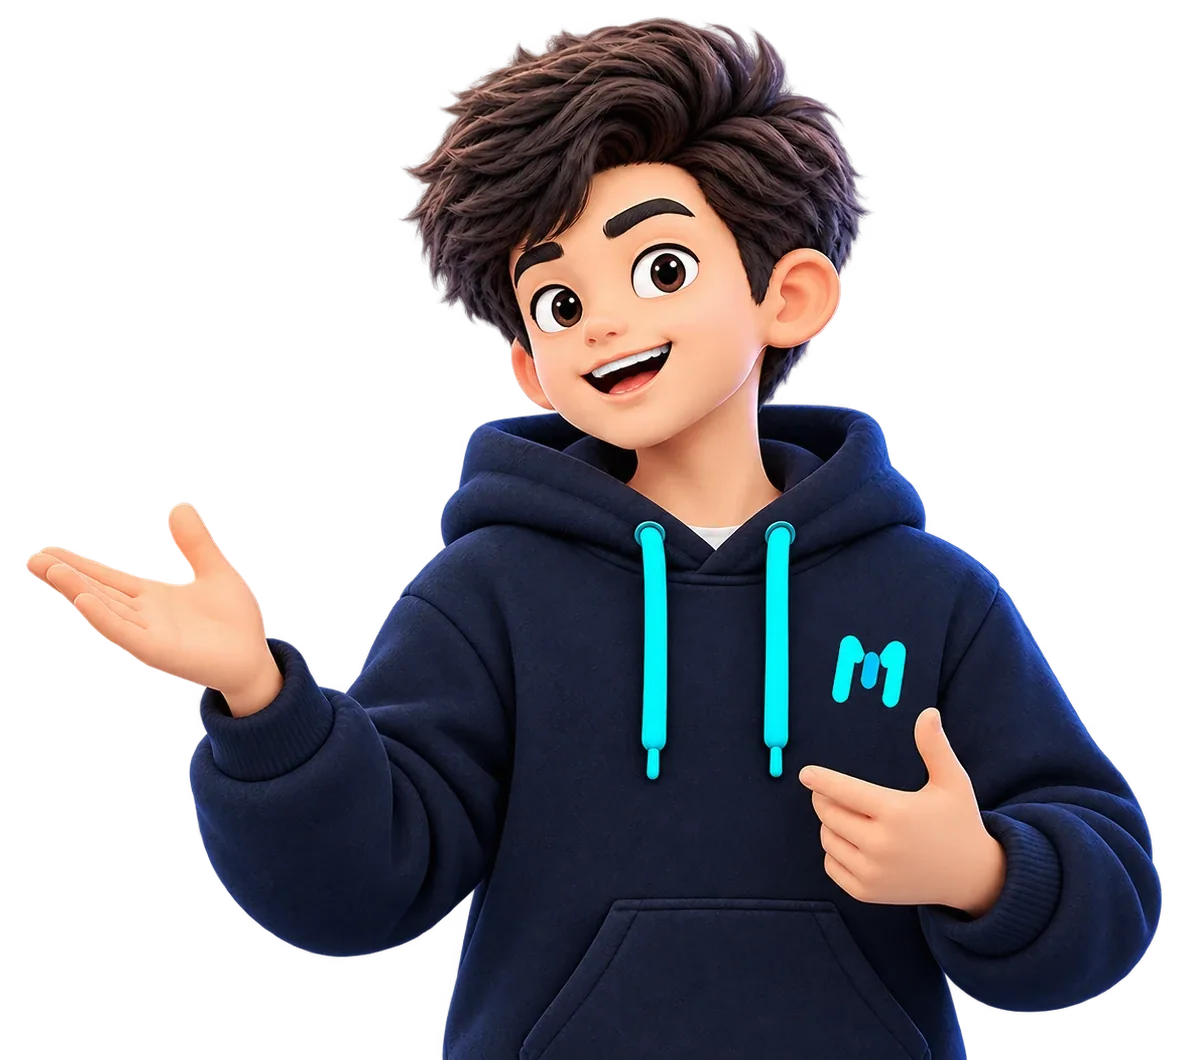
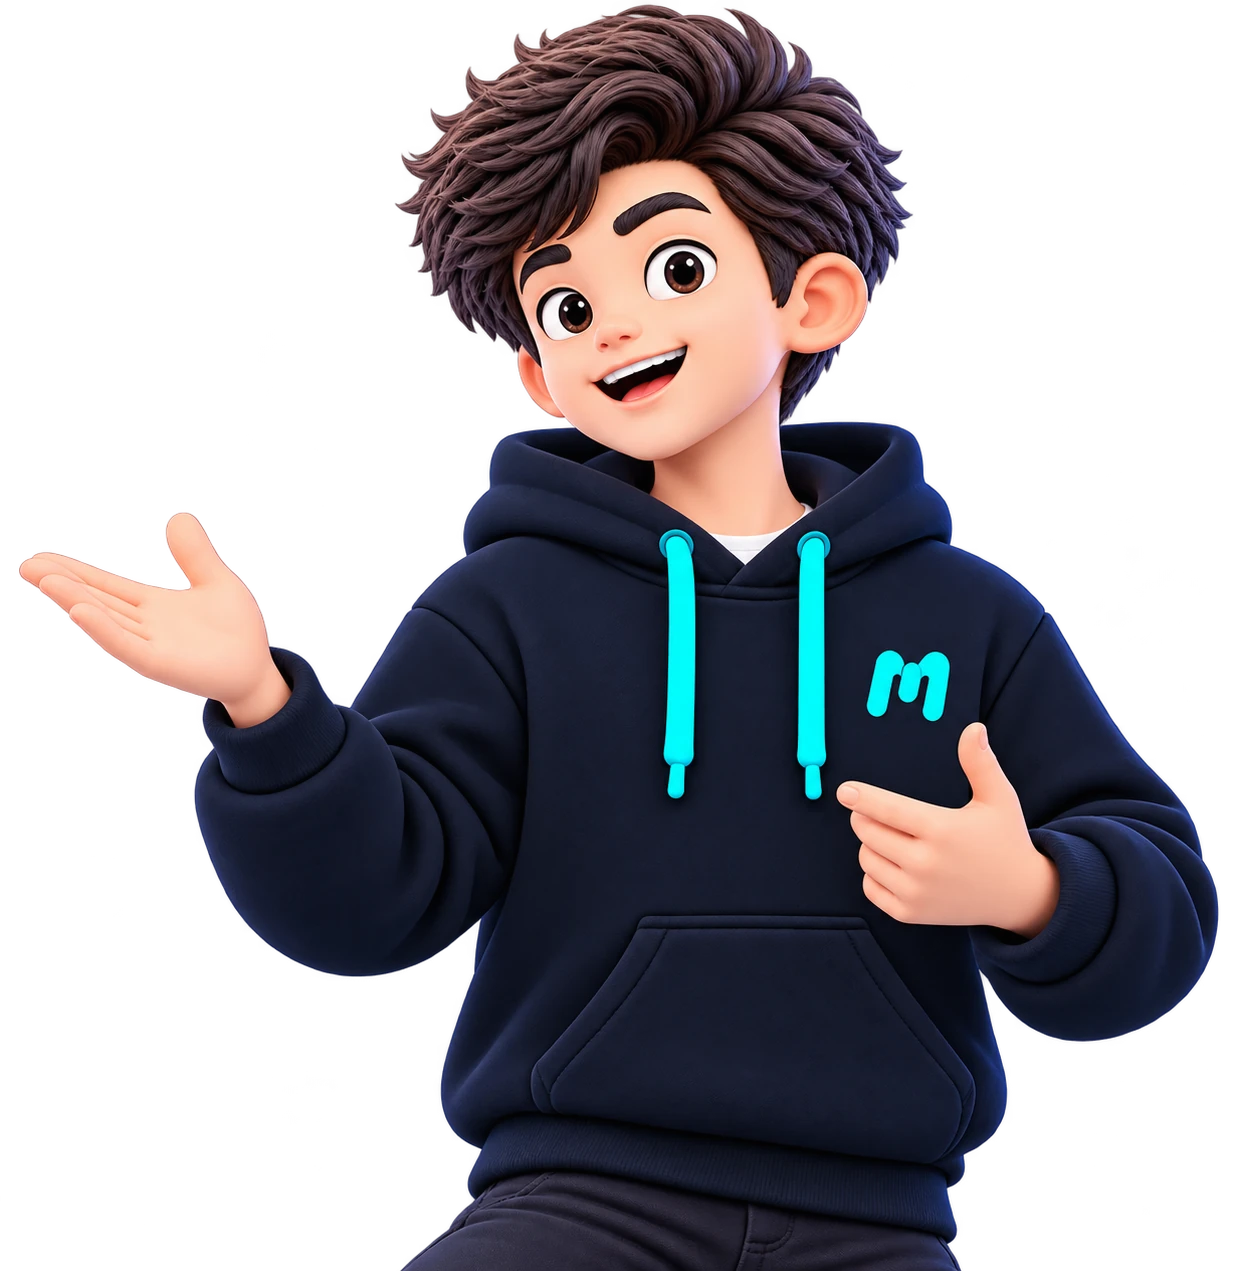
feat(about): convert Cheerful Presenter to about-hero.webp, update resume hero, and remove source png

diff --git a/apps/web/src/app/(public)/resume/ResumeContent.tsx b/apps/web/src/app/(public)/resume/ResumeContent.tsx
@@ -186,10 +186,10 @@ export function ResumeContent({ experiences, educations, cvUrl }: ResumeContentP
             {/* Right – Hero Avatar */}
             <div className="relative flex items-center justify-center mt-6 lg:mt-0">
               <HeroAvatarFrame
-                imageSrc="/images/mascots/about.webp"
+                imageSrc="/images/mascots/about-hero.webp"
                 imageAlt="Masdika – About Me"
-                imageWidth={1180}
-                imageHeight={1060}
+                imageWidth={1238}
+                imageHeight={1271}
                 badges={[
                   { icon: Cloud, label: "AWS Certified", value: "Cloud Expert" },
                   { icon: Database, label: "High Availability", value: "DB Architect" },
